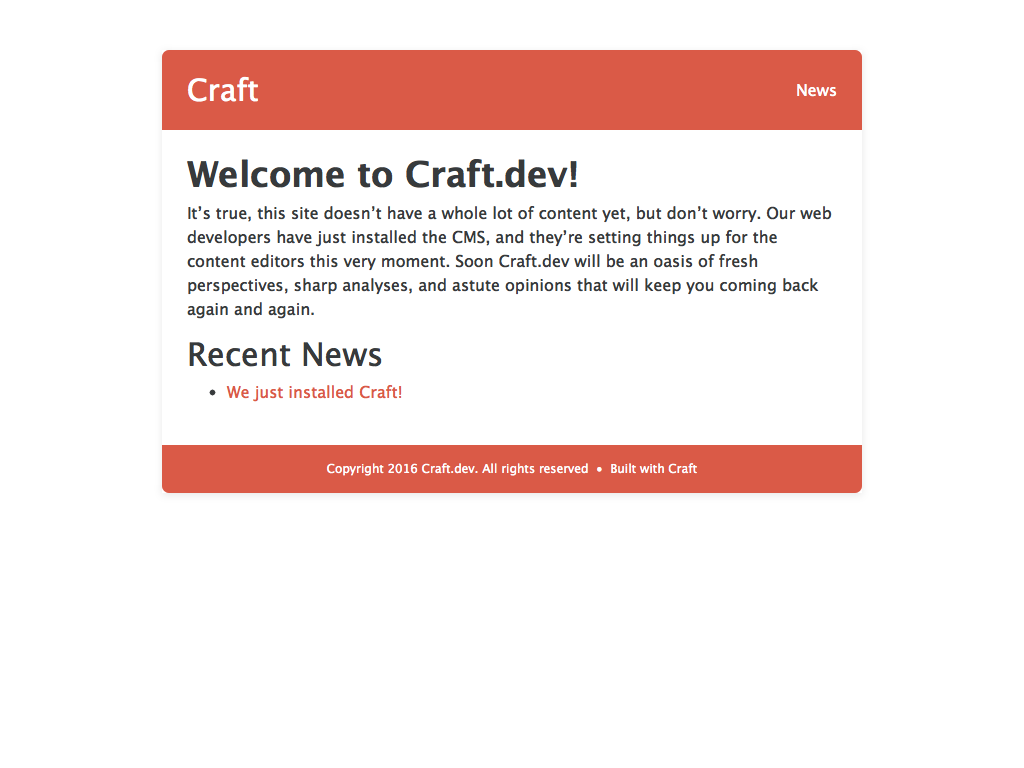
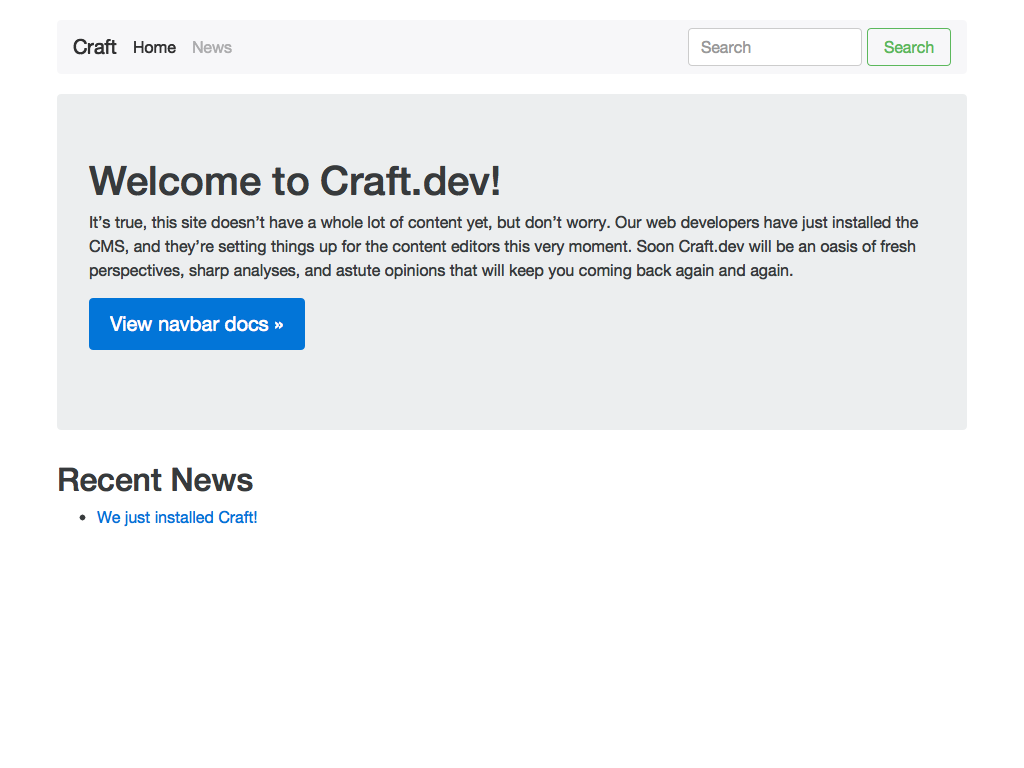
added bootstrap template and region screenshots

Changed region(s): [[0.0625, 0.0312, 0.9062, 0.5312], [0.0625, 0.5625, 0.8438, 0.6875]]

diff --git a/resources/styles/app.scss b/resources/styles/app.scss
@@ -4,29 +4,10 @@
  * Custom Styles below
 */
 
-body { margin: 50px; font-family: sans-serif; background: #ffffff; }
-#container { margin: 0 auto; width: 700px;
-  -webkit-box-shadow: 0 2px 10px rgba(0,0,0,0.1);
-  box-shadow: 0 2px 10px rgba(0,0,0,0.1);
+body {
+  padding-top: 20px;
+  padding-bottom: 20px;
+  .navbar {
+    margin-bottom: 20px;
+  }
 }
-
-#header, #footer { display: block; color: #fff; background: #da5a47; }
-#header a, #footer a { color: #fff; }
-#header { border-radius: 7px 7px 0 0; padding: 25px; }
-#header:after { content: '.'; display: block; height: 0; clear: both; visibility: hidden; }
-#header a { text-decoration: none; }
-#header h1 { float: left; margin: 0; font-weight: normal; font-size: 30px; line-height: 1; }
-#header nav { display: block; float: right; }
-#header nav ul { margin: 0; list-style-type: none; }
-#header nav ul li { float: left; margin-left: 20px; }
-#header nav ul li a { display: block; margin-top: 4px; line-height: 22px; }
-#header nav ul li a:hover,
-#header nav ul li a.active { border-bottom: 2px solid #fff; }
-#header nav ul li a.active { cursor: default; }
-
-#content { display: block; padding: 25px; background: #fff; }
-#content h1 { margin-top: 0; font-size: 35px; font-weight: bold; }
-#content a { color: #da5a47; text-decoration: none; }
-#content a:hover { text-decoration: underline; }
-
-#footer { border-radius: 0 0 7px 7px; padding: 15px; font-size: 12px; text-align: center; }
